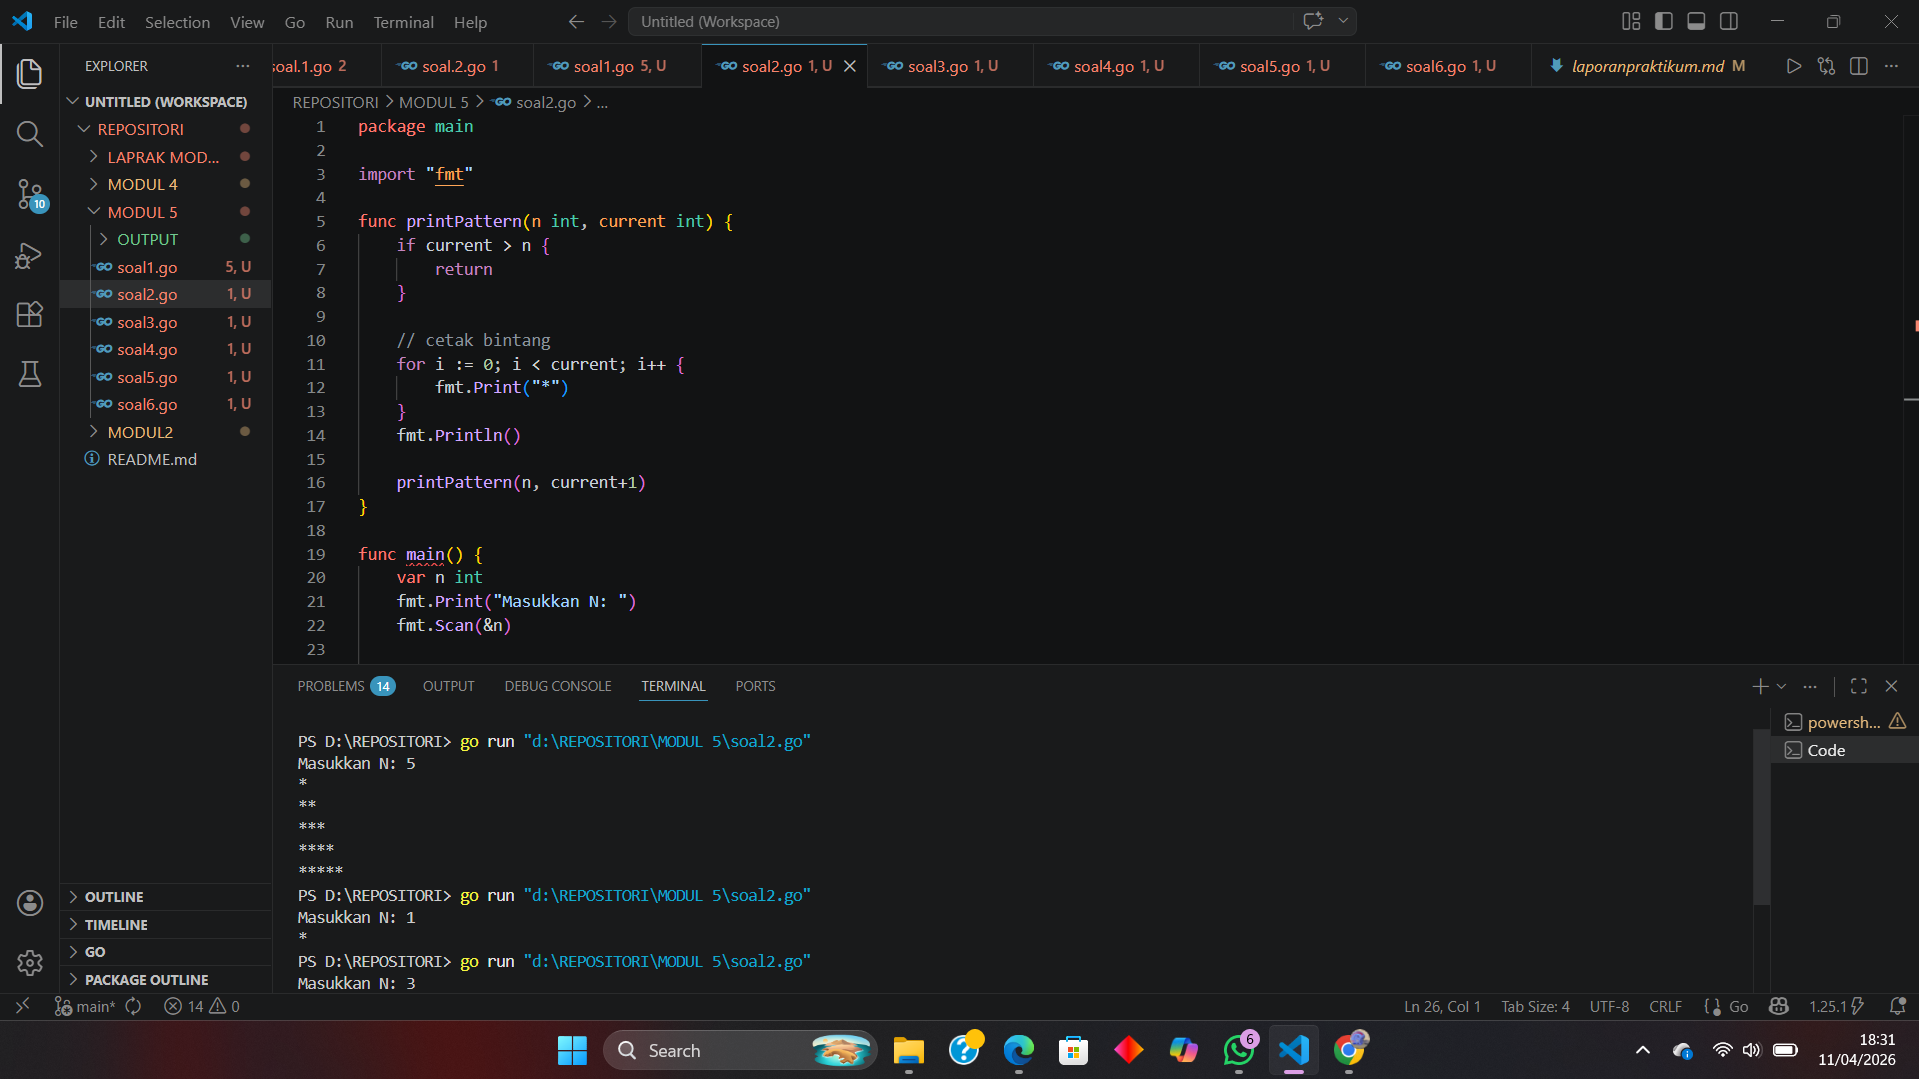
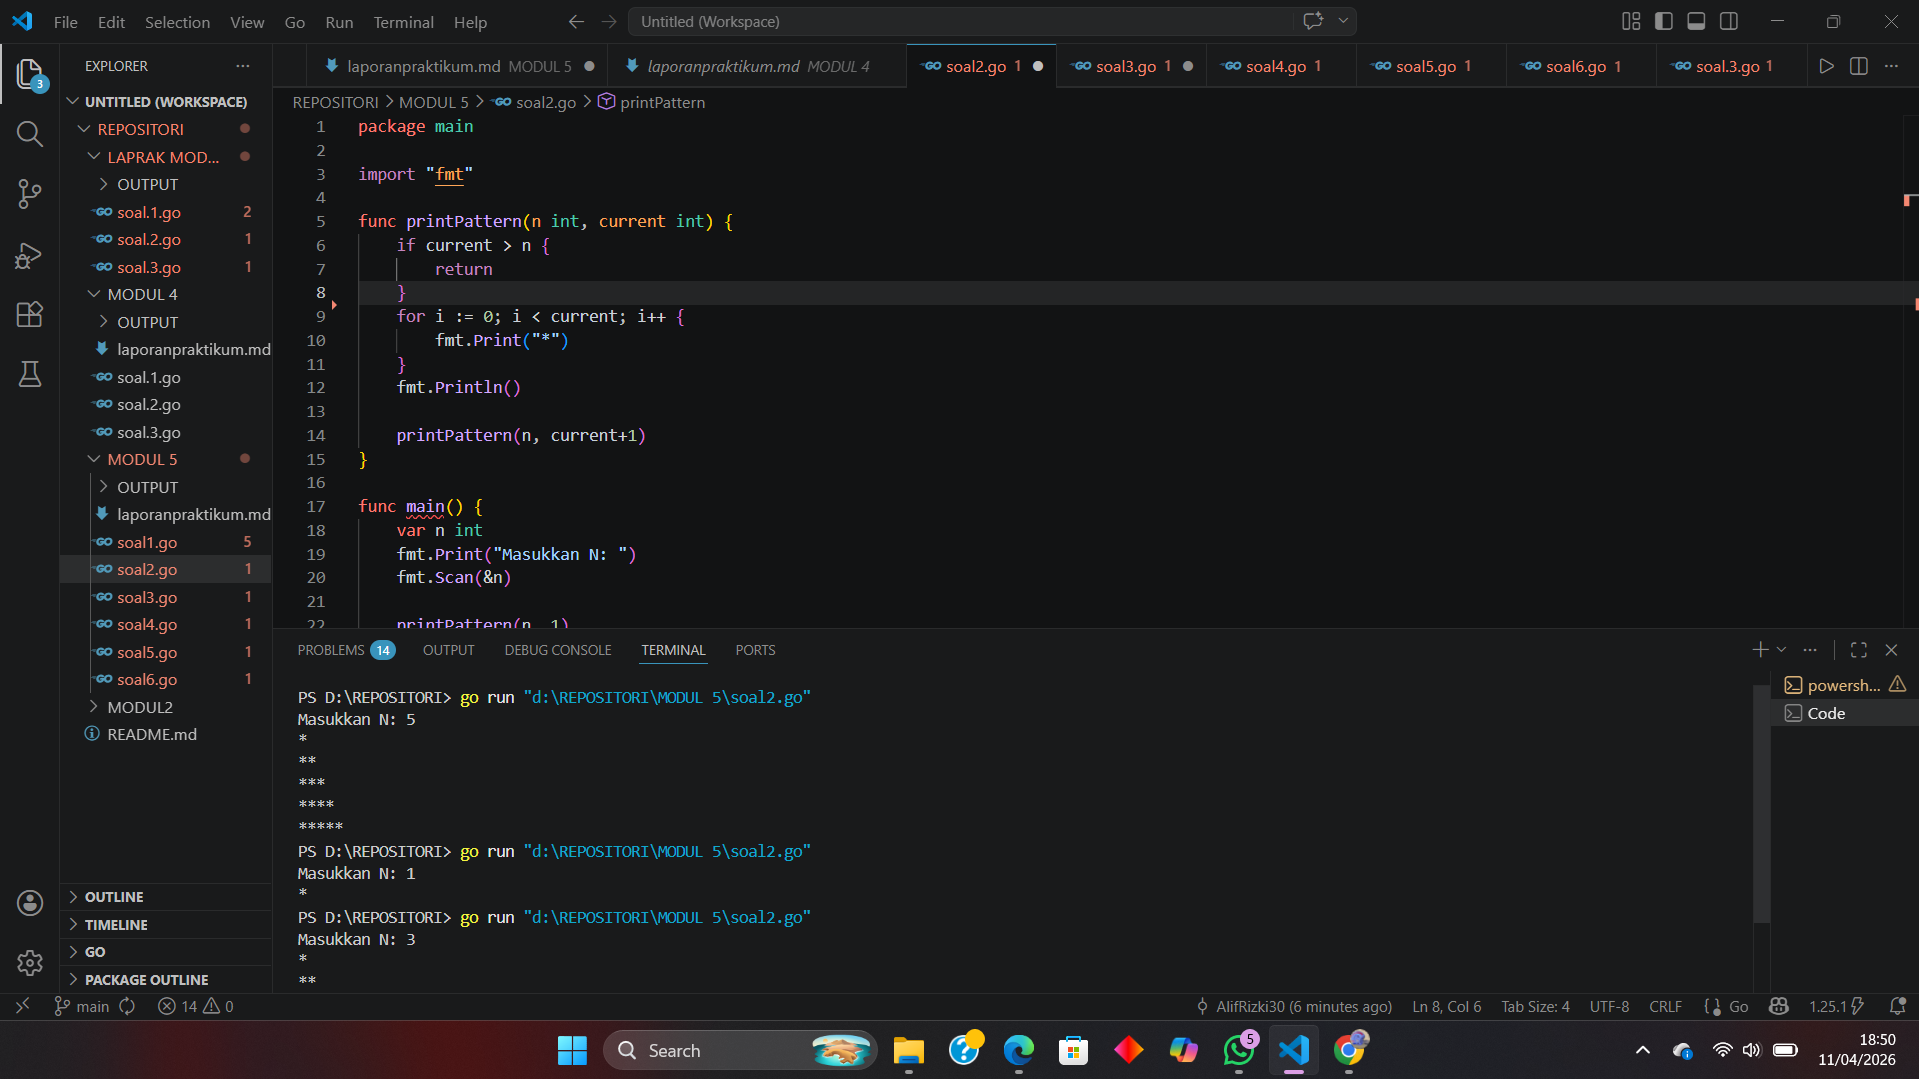
alif

diff --git a/MODUL 5/laporanpraktikum.md b/MODUL 5/laporanpraktikum.md
@@ -1,0 +1,217 @@
+# <h1 align="center">sLaporan Praktikum Modul 4 - ... </h1>
+<p align="center">[ALIF RIZKI PANGESTU] - [109082530004]</p>
+
+## Unguided 
+
+### 1. [Soal]
+#### soal1.go
+
+```go
+package main
+
+import "fmt"
+
+func fibonacci(n int) int {
+	if n == 0 {
+		return 0
+	} else if n == 1 {
+		return 1
+	}
+	return fibonacci(n-1) + fibonacci(n-2)
+}
+func main() {
+	n := 10
+	fmt.Println("Deret Fibonacci sampai suku ke-", n)
+	for i := 0; i <= n; i++ {
+		fmt.Print(fibonacci(i), " ")
+	}
+}
+```
+### Output Unguided :
+
+##### Output 
+![Screenshot Output Unguided 1_1](https://github.com/AlifRizki30/109082530004_ALIF-RIZKI-PANGESTU/blob/main/MODUL%205/OUTPUT/SOAL1.png)
+Program Go tersebut digunakan untuk menampilkan deret Fibonacci hingga suku ke-n dengan memanfaatkan konsep rekursif. Program mendefinisikan sebuah fungsi fibonacci(n int) yang menghitung nilai suku ke-n, di mana jika n bernilai 0 maka mengembalikan 0, dan jika n bernilai 1 maka mengembalikan 1, sedangkan untuk nilai lainnya dihitung dari penjumlahan dua suku sebelumnya yaitu fibonacci(n-1) + fibonacci(n-2). Pada fungsi utama (main), program menentukan atau menerima input nilai n, kemudian menggunakan perulangan untuk memanggil fungsi fibonacci dari indeks 0 hingga n, sehingga menghasilkan dan menampilkan deret Fibonacci secara berurutan. Program ini menunjukkan bagaimana rekursi bekerja dengan memecah masalah menjadi sub-masalah yang lebih kecil hingga mencapai kondisi dasar (base case).
+
+
+## Unguided 
+
+### 2. [Soal]
+#### soal2.go
+
+```go
+package main
+import "fmt"
+func printPattern(n int, current int) {
+	if current > n {
+		return
+	}
+	for i := 0; i < current; i++ {
+		fmt.Print("*")
+	}
+	fmt.Println()
+
+	printPattern(n, current+1)
+}
+
+func main() {
+	var n int
+	fmt.Print("Masukkan N: ")
+	fmt.Scan(&n)
+
+	printPattern(n, 1)
+}
+```
+### Output Unguided :
+
+##### Output 
+![Screenshot Output Unguided 1_1](https://github.com/AlifRizki30/109082530004_ALIF-RIZKI-PANGESTU/blob/main/MODUL%205/OUTPUT/SOAL2.png)
+Program Go pada soal nomor 2 bertujuan untuk menampilkan pola bintang berbentuk segitiga menggunakan konsep rekursif. Program menerima sebuah input bilangan N dari pengguna yang menentukan jumlah baris pola yang akan ditampilkan. Selanjutnya, terdapat fungsi rekursif yang bekerja dengan cara mencetak sejumlah bintang sesuai nilai baris saat ini, dimulai dari 1 hingga N, kemudian memanggil dirinya sendiri dengan nilai yang meningkat hingga mencapai batas. Setiap pemanggilan fungsi akan mencetak satu baris bintang sebelum melanjutkan ke baris berikutnya, sehingga terbentuk pola bertingkat dari satu bintang hingga N bintang. Konsep ini memanfaatkan rekursi sebagai alternatif dari perulangan untuk menghasilkan pola berulang, di mana setiap langkah bergantung pada langkah sebelumnya hingga mencapai kondisi berhenti.
+
+
+
+## Unguided 
+
+### 3. [Soal]
+#### soal3.go
+
+```go
+package main
+import "fmt"
+func faktor(n int, i int) {
+	if i > n {
+		return
+	}
+
+	if n%i == 0 {
+		fmt.Print(i, " ")
+	}
+
+	faktor(n, i+1)
+}
+func main() {
+	var n int
+	fmt.Print("Masukkan bilangan: ")
+	fmt.Scan(&n)
+
+	fmt.Print("Faktor dari ", n, ": ")
+	faktor(n, 1)
+}
+```
+### Output Unguided :
+
+##### Output 
+![Screenshot Output Unguided 1_1](https://github.com/AlifRizki30/109082530004_ALIF-RIZKI-PANGESTU/blob/main/MODUL%205/OUTPUT/SOAL3.png)
+Program Go pada soal nomor 3 bertujuan untuk menampilkan faktor dari suatu bilangan dengan menggunakan konsep rekursif. Program menerima input berupa sebuah bilangan bulat positif N, kemudian menggunakan fungsi rekursif untuk mengecek setiap bilangan dari 1 hingga N apakah habis membagi N atau tidak. Jika suatu bilangan memenuhi kondisi N % i == 0, maka bilangan tersebut dicetak sebagai faktor. Proses ini dilakukan berulang dengan cara fungsi memanggil dirinya sendiri dengan nilai yang terus bertambah hingga mencapai batas N, lalu berhenti ketika kondisi akhir terpenuhi. Program ini menunjukkan penerapan rekursi sebagai teknik pengulangan, di mana fungsi terus memanggil dirinya sendiri sampai mencapai kondisi berhenti (base case) sehingga seluruh faktor dari bilangan tersebut dapat ditampilkan secara berurutan
+
+
+## Unguided 
+
+### 4. [Soal]
+#### soal4.go
+
+```go
+package main
+
+import "fmt"
+
+func barisan(n int) {
+	if n == 0 {
+		return
+	}
+
+	fmt.Print(n, " ")
+	barisan(n - 1)
+	fmt.Print(n, " ")
+}
+
+func main() {
+	var n int
+	fmt.Print("Masukkan N: ")
+	fmt.Scan(&n)
+
+	barisan(n)
+}
+```
+### Output Unguided :
+
+##### Output 
+![Screenshot Output Unguided 1_1](https://github.com/AlifRizki30/109082530004_ALIF-RIZKI-PANGESTU/blob/main/MODUL%205/OUTPUT/SOAL4.png)
+Program Go pada soal nomor 4 bertujuan untuk menampilkan barisan angka dengan pola menurun dari nilai N hingga 1, kemudian dilanjutkan kembali naik dari 1 hingga N menggunakan konsep rekursif. Program menerima input berupa bilangan N dari pengguna, lalu memanggil fungsi rekursif yang pertama-tama mencetak nilai N, kemudian memanggil dirinya sendiri dengan nilai yang dikurangi satu hingga mencapai kondisi berhenti (saat N = 0). Setelah proses rekursi mencapai titik dasar, fungsi akan melanjutkan eksekusi dengan mencetak kembali nilai saat proses “naik” (backtracking), sehingga menghasilkan pola simetris seperti N, N-1, ..., 1, ..., N-1, N. Program ini menunjukkan cara kerja rekursi yang memiliki dua tahap, yaitu saat pemanggilan fungsi (descending) dan saat kembali dari pemanggilan (ascending), sesuai dengan konsep dasar rekursi yang membangun solusi dari pemecahan masalah yang lebih kecil.
+
+
+
+## Unguided 
+
+### 5. [Soal]
+#### soal5.go
+
+```go
+package main
+
+import "fmt"
+
+func ganjil(n int, i int) {
+	if i > n {
+		return
+	}
+
+	if i%2 != 0 {
+		fmt.Print(i, " ")
+	}
+
+	ganjil(n, i+1)
+}
+
+func main() {
+	var n int
+	fmt.Print("Masukkan N: ")
+	fmt.Scan(&n)
+
+	ganjil(n, 1)
+}
+```
+### Output Unguided :
+
+##### Output 
+![Screenshot Output Unguided 1_1](https://github.com/AlifRizki30/109082530004_ALIF-RIZKI-PANGESTU/blob/main/MODUL%205/OUTPUT/SOAL5.png)
+Program Go pada soal nomor 5 bertujuan untuk menampilkan deret bilangan ganjil hingga batas tertentu menggunakan konsep rekursif. Program menerima input berupa sebuah bilangan N dari pengguna, kemudian menggunakan fungsi rekursif yang berjalan dari nilai awal (biasanya 1) hingga N. Pada setiap langkah, fungsi akan mengecek apakah bilangan tersebut merupakan bilangan ganjil dengan kondisi i % 2 != 0, dan jika memenuhi, maka bilangan tersebut akan dicetak. Selanjutnya fungsi memanggil dirinya sendiri dengan nilai yang bertambah hingga mencapai kondisi berhenti saat nilai melebihi N. Program ini menunjukkan bagaimana rekursi dapat digunakan sebagai pengganti perulangan untuk melakukan pengecekan dan penampilan bilangan secara berulang hingga batas tertentu.
+
+
+## Unguided 
+
+### 6. [Soal]
+#### soal6.go
+
+```go
+package main
+
+import "fmt"
+
+func pangkat(x int, y int) int {
+	if y == 0 {
+		return 1
+	}
+	return x * pangkat(x, y-1)
+}
+
+func main() {
+	var x, y int
+	fmt.Print("Masukkan x dan y: ")
+	fmt.Scan(&x, &y)
+
+	fmt.Println("Hasil:", pangkat(x, y))
+}
+```
+### Output Unguided :
+
+##### Output 
+![Screenshot Output Unguided 1_1](https://github.com/AlifRizki30/109082530004_ALIF-RIZKI-PANGESTU/blob/main/MODUL%205/OUTPUT/SOAL6.png)
+Program Go pada soal nomor 6 bertujuan untuk menghitung hasil perpangkatan suatu bilangan menggunakan konsep rekursif. Program menerima dua input dari pengguna, yaitu nilai bilangan dasar (x) dan pangkatnya (y), kemudian menggunakan fungsi rekursif untuk menghitung nilai (x^y). Di dalam fungsi tersebut terdapat kondisi dasar (base case) yaitu ketika nilai y = 0, maka hasilnya adalah 1, sedangkan untuk kondisi lainnya (recursive case), fungsi akan mengembalikan hasil perkalian antara x dengan hasil pemanggilan fungsi itu sendiri dengan parameter yang dikurangi satu, yaitu (x * pangkat(x, y-1)). Proses ini akan terus berulang hingga mencapai kondisi dasar, sehingga menghasilkan nilai akhir dari perpangkatan. Program ini menunjukkan bagaimana rekursi bekerja dengan cara memecah perhitungan menjadi bentuk yang lebih sederhana hingga mencapai kondisi berhenti.
+
+
+
+
+
+
+
